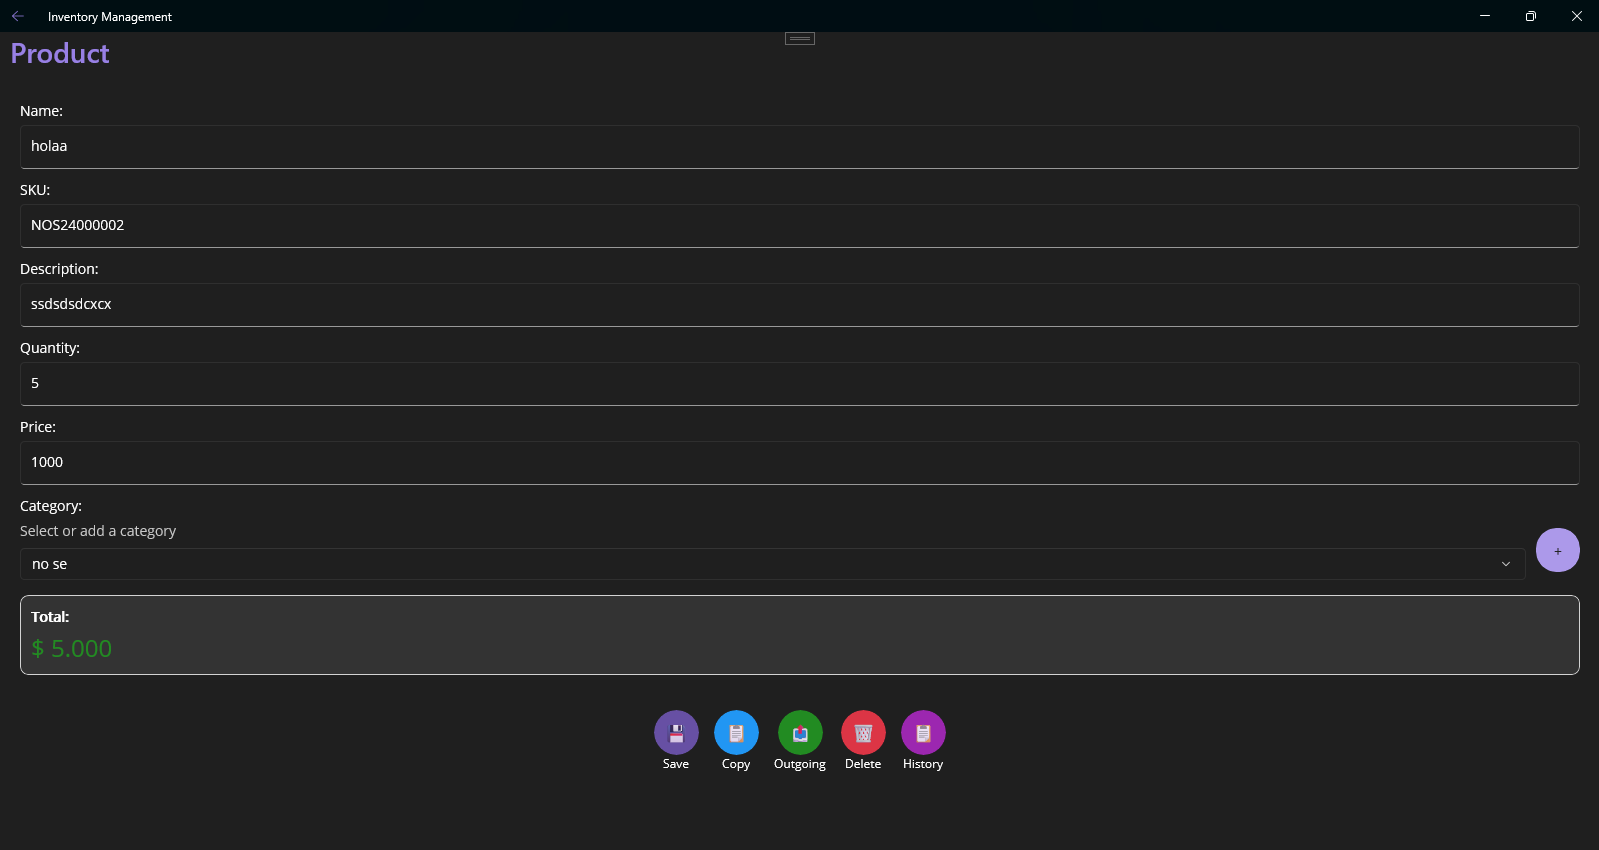
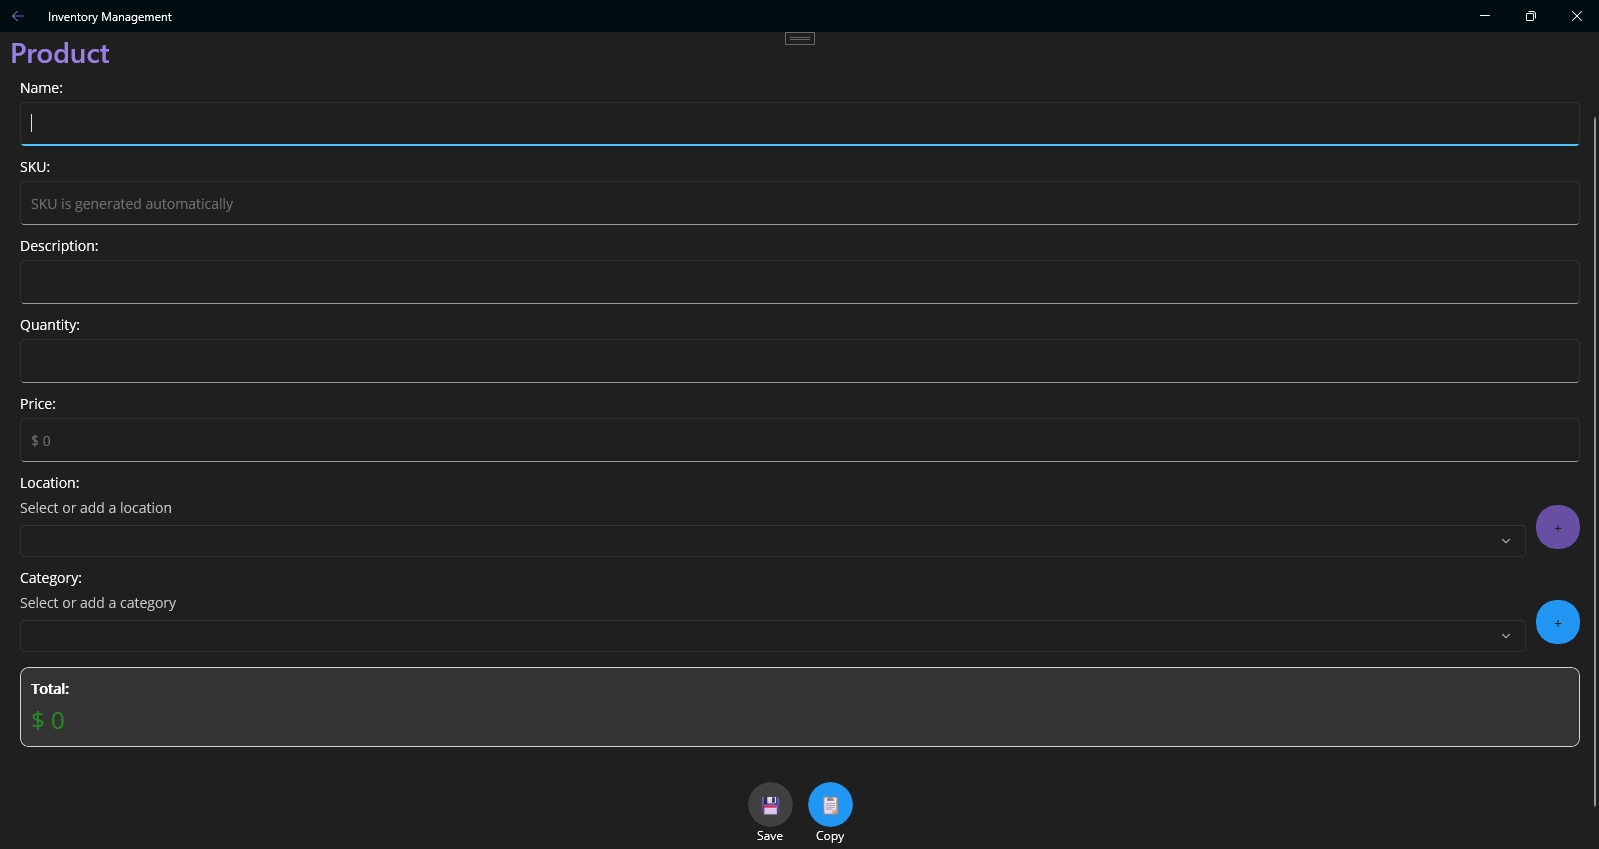
new Entry to add locations of the products

diff --git a/InventoryManagementMAUI/Pages/ProductPage.xaml b/InventoryManagementMAUI/Pages/ProductPage.xaml
@@ -43,28 +43,47 @@
                        Keyboard="Numeric"
                        MaxLength="10"
                        TextChanged="OnPriceTextChanged"
-                       Placeholder="0.00"/>
+                       Placeholder="$ 0"/>
                 <Label x:Name="priceError"
                        TextColor="Red"
                        IsVisible="false"
                        Text="Please enter a valid price"/>
             </VerticalStackLayout>
 
+            <!-- Location -->
+            <VerticalStackLayout Spacing="5">
+                <Label Text="Location:" />
+                <Grid ColumnDefinitions="*,Auto" ColumnSpacing="10">
+                <Picker x:Name="locationPicker"
+                    Grid.Column="0"
+                    Title="Select or add a location"/>
+                <Button Grid.Column="1"
+                    Text="+"
+                    BackgroundColor="#6750A4"
+                    HeightRequest="40"
+                    WidthRequest="40"
+                    CornerRadius="20"
+                    Padding="0"
+                    Clicked="OnAddLocationClicked"/>
+                </Grid>
+            </VerticalStackLayout>
+
             <!-- Category -->
             <VerticalStackLayout Spacing="5">
                 <Label Text="Category:" />
                 <Grid ColumnDefinitions="*,Auto" ColumnSpacing="10">
-                    <Picker x:Name="categoryPicker"
-                            Grid.Column="0"
-                            Title="Select or add a category"
-                            SelectedIndexChanged="OnCategorySelectedIndexChanged"/>
-                    <Button Grid.Column="1"
-                            Text="+"
-                            HeightRequest="40"
-                            WidthRequest="40"
-                            CornerRadius="20"
-                            Padding="0"
-                            Clicked="OnAddCategoryClicked"/>
+                <Picker x:Name="categoryPicker"
+                    Grid.Column="0"
+                    Title="Select or add a category"
+                    SelectedIndexChanged="OnCategorySelectedIndexChanged"/>
+                <Button Grid.Column="1"
+                    Text="+"
+                    BackgroundColor="#2196F3"
+                    HeightRequest="40"
+                    WidthRequest="40"
+                    CornerRadius="20"
+                    Padding="0"
+                    Clicked="OnAddCategoryClicked"/>
                 </Grid>
             </VerticalStackLayout>
 
@@ -77,7 +96,7 @@
                     <Label Text="Total:" 
                            FontAttributes="Bold"/>
                     <Label x:Name="totalLabel" 
-                           Text="$ 0.00" 
+                           Text="$ 0" 
                            FontSize="24"
                            TextColor="#228B22"/>
                 </VerticalStackLayout>
@@ -90,6 +109,7 @@
                       ColumnSpacing="15"
                       HorizontalOptions="Center"
                       x:Name="newProductButtons">
+                    
                     <!-- Save -->
                     <VerticalStackLayout Grid.Column="0">
                         <Button x:Name="saveButton"
@@ -144,8 +164,8 @@
                                 Padding="0"
                                 Clicked="OnSaveClicked"/>
                         <Label Text="Save" 
-                               FontSize="12"
-                               HorizontalOptions="Center"/>
+                                FontSize="12"
+                                HorizontalOptions="Center"/>
                     </VerticalStackLayout>
 
                     <!-- Copy -->
@@ -161,8 +181,8 @@
                                 Padding="0"
                                 Clicked="OnCopyToClipboardClicked"/>
                         <Label Text="Copy" 
-                               FontSize="12"
-                               HorizontalOptions="Center"/>
+                                FontSize="12"
+                                HorizontalOptions="Center"/>
                     </VerticalStackLayout>
 
                     <!-- Outgoing -->
@@ -177,8 +197,8 @@
                                 Padding="0"
                                 Clicked="OnRegisterOutputClicked"/>
                         <Label Text="Outgoing" 
-                               FontSize="12"
-                               HorizontalOptions="Center"/>
+                                FontSize="12"
+                                HorizontalOptions="Center"/>
                     </VerticalStackLayout>
                     
                     <!-- Delete -->
@@ -194,8 +214,8 @@
                                 Padding="0"
                                 Clicked="OnDeleteClicked"/>
                         <Label Text="Delete" 
-                               FontSize="12"
-                               HorizontalOptions="Center"/>
+                                FontSize="12"
+                                HorizontalOptions="Center"/>
                     </VerticalStackLayout>
                     
                     <!-- History -->
@@ -209,7 +229,7 @@
                             FontSize="18"
                             Padding="0"
                             Clicked="OnViewMovementsClicked"/>
-                                        <Label Text="History" 
+                        <Label Text="History" 
                             FontSize="12"
                             HorizontalOptions="Center"/>
                     </VerticalStackLayout>

diff --git a/InventoryManagementMAUI/Pages/ProductPage.xaml.cs b/InventoryManagementMAUI/Pages/ProductPage.xaml.cs
@@ -11,6 +11,7 @@ public partial class ProductPage : ContentPage
     private bool _isQuantityValid = true;
     private bool _isPriceValid = true;
     private List<string> _categories;
+    private List<string> _locations;
 
     public ProductPage(Product product = null)
     {
@@ -40,11 +41,15 @@ public partial class ProductPage : ContentPage
     private async void InitializePageAsync()
     {
         await LoadCategoriesAsync();
+        await LoadLocationsAsync();
+
         if (_product != null)
         {
             SetInitialCategory(_product.Category);
+            SetInitialLocation(_product.Location);
         }
     }
+
 
     private async Task LoadCategoriesAsync()
     {
@@ -104,6 +109,59 @@ public partial class ProductPage : ContentPage
         }
     }
 
+    private async Task LoadLocationsAsync()
+    {
+        try
+        {
+            _locations = await _database.GetAllLocationsAsync();
+            locationPicker.ItemsSource = _locations;
+        }
+        catch (Exception ex)
+        {
+            await DisplayAlert("Error", "Could not load locations: " + ex.Message, "OK");
+        }
+    }
+
+    private void SetInitialLocation(string location)
+    {
+        if (string.IsNullOrEmpty(location)) return;
+
+        var index = _locations?.IndexOf(location) ?? -1;
+        if (index >= 0)
+        {
+            locationPicker.SelectedIndex = index;
+        }
+        else if (_locations != null)
+        {
+            _locations.Add(location);
+            locationPicker.ItemsSource = null;
+            locationPicker.ItemsSource = _locations;
+            locationPicker.SelectedIndex = _locations.Count - 1;
+        }
+    }
+
+    private async void OnAddLocationClicked(object sender, EventArgs e)
+    {
+        string newLocation = await DisplayPromptAsync("New Location",
+            "Enter the name for the new location:",
+            accept: "Add",
+            cancel: "Cancel");
+
+        if (!string.IsNullOrWhiteSpace(newLocation))
+        {
+            if (_locations == null)
+                _locations = new List<string>();
+
+            if (!_locations.Contains(newLocation))
+            {
+                _locations.Add(newLocation);
+                locationPicker.ItemsSource = null;
+                locationPicker.ItemsSource = _locations;
+                locationPicker.SelectedItem = newLocation;
+            }
+        }
+    }
+
     private async void OnRegisterOutputClicked(object sender, EventArgs e)
     {
         await Navigation.PushAsync(new ProductOutputPage(_product));
@@ -124,7 +182,7 @@ public partial class ProductPage : ContentPage
             if (string.IsNullOrWhiteSpace(quantityEntry.Text) ||
                 string.IsNullOrWhiteSpace(priceEntry.Text))
             {
-                totalLabel.Text = "$ 0.00";
+                totalLabel.Text = "$ 0";
                 return;
             }
 
@@ -141,14 +199,14 @@ public partial class ProductPage : ContentPage
             }
             else
             {
-                totalLabel.Text = "$ 0.00";
+                totalLabel.Text = "$ 0";
                 Debug.WriteLine("Could not convert quantity or price");
             }
         }
         catch (Exception ex)
         {
             Debug.WriteLine($"Error in UpdateTotal: {ex.Message}");
-            totalLabel.Text = "$ 0.00";
+            totalLabel.Text = "$ 0";
         }
     }
 
@@ -245,6 +303,12 @@ public partial class ProductPage : ContentPage
                 return;
             }
 
+            if (locationPicker.SelectedItem == null)
+            {
+                await DisplayAlert("Error", "Please select or add a location", "OK");
+                return;
+            }
+
             if (_product == null)
                 _product = new Product();
 
@@ -253,6 +317,7 @@ public partial class ProductPage : ContentPage
             _product.Quantity = int.Parse(quantityEntry.Text);
             _product.Price = decimal.Parse(priceEntry.Text);
             _product.Category = categoryPicker.SelectedItem.ToString();
+            _product.Location = locationPicker.SelectedItem.ToString();
 
             await _database.SaveProductAsync(_product);
             await Navigation.PopAsync();
@@ -262,6 +327,7 @@ public partial class ProductPage : ContentPage
             await DisplayAlert("Error", "Could not save the product. Please check the fields.", "OK");
         }
     }
+
 
     private async void OnCopyToClipboardClicked(object sender, EventArgs e)
     {
@@ -306,8 +372,9 @@ public partial class ProductPage : ContentPage
         skuLabel.Text = product.SKU;
         descriptionEntry.Text = product.Description;
         quantityEntry.Text = product.Quantity.ToString();
-        priceEntry.Text = product.Price.ToString("F2");
+        priceEntry.Text = product.Price.ToString("F0");
         SetInitialCategory(product.Category);
+        SetInitialLocation(product.Location);
         UpdateTotal();
     }
 }

diff --git a/InventoryManagementMAUI/Services/DatabaseService.cs b/InventoryManagementMAUI/Services/DatabaseService.cs
@@ -34,6 +34,17 @@ namespace InventoryManagementMAUI.Services
             }
         }
 
+        public async Task<List<string>> GetAllLocationsAsync()
+        {
+            var products = await _database.Table<Product>().ToListAsync();
+            return products
+                .Where(p => !string.IsNullOrEmpty(p.Location))
+                .Select(p => p.Location)
+                .Distinct()
+                .OrderBy(l => l)
+                .ToList();
+        }
+
         public async Task<bool> IsSkuUniqueAsync(string sku)
         {
             var existingProduct = await _database.Table<Product>()
@@ -129,20 +140,9 @@ namespace InventoryManagementMAUI.Services
             {
                 if (product.Id == 0)
                 {
-                    if (!string.IsNullOrEmpty(product.SKU))
-                    {
-                        if (!await IsSkuUniqueAsync(product.SKU))
-                        {
-                            throw new Exception("SKU already exists in the database");
-                        }
-                    }
-                    else
-                    {
-                        product.SKU = await GenerateSKUAsync(product.Category);
-                    }
-
+                    product.SKU = await GenerateSKUAsync(product.Category);
                     product.CreatedAt = DateTime.Now;
-                    Debug.WriteLine($"Generated SKU: {product.SKU}");
+                    product.Location = product.Location ?? string.Empty;
 
                     var result = await _database.InsertAsync(product);
 
@@ -160,7 +160,7 @@ namespace InventoryManagementMAUI.Services
                             Quantity = product.Quantity,
                             Date = DateTime.Now,
                             Type = "INCOMING",
-                            Notes = "Initial stock entry"
+                            Notes = $"Initial stock entry - Location: {product.Location}"
                         });
                     }
                     return result;
@@ -170,7 +170,11 @@ namespace InventoryManagementMAUI.Services
                     var existingProduct = await GetProductAsync(product.Id);
                     if (existingProduct != null)
                     {
-                        product.SKU = existingProduct.SKU;
+                        string locationChange = "";
+                        if (existingProduct.Location != product.Location)
+                        {
+                            locationChange = $" - Moved from {existingProduct.Location} to {product.Location}";
+                        }
 
                         if (existingProduct.Quantity != product.Quantity)
                         {
@@ -181,7 +185,18 @@ namespace InventoryManagementMAUI.Services
                                 Quantity = Math.Abs(difference),
                                 Date = DateTime.Now,
                                 Type = difference > 0 ? "INCOMING" : "OUTGOING",
-                                Notes = $"Stock adjusted by {Math.Abs(difference)} units"
+                                Notes = $"Stock adjusted by {Math.Abs(difference)} units{locationChange}"
+                            });
+                        }
+                        else if (!string.IsNullOrEmpty(locationChange))
+                        {
+                            await RegisterProductMovement(new ProductMovement
+                            {
+                                ProductId = product.Id,
+                                Quantity = 0,
+                                Date = DateTime.Now,
+                                Type = "LOCATION_CHANGE",
+                                Notes = $"Location changed{locationChange}"
                             });
                         }
                     }

diff --git a/InventoryManagementMAUI/Models/Product.cs b/InventoryManagementMAUI/Models/Product.cs
@@ -13,5 +13,6 @@ namespace InventoryManagementMAUI.Models
         public decimal Price { get; set; }
         public string Category { get; set; }
         public DateTime CreatedAt { get; set; }
+        public string Location { get; set; }
     }
 }
